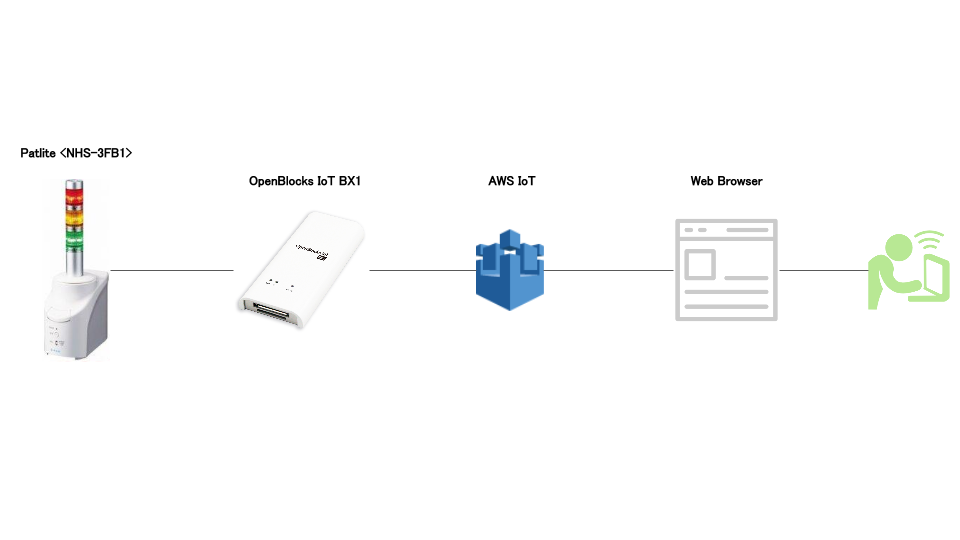
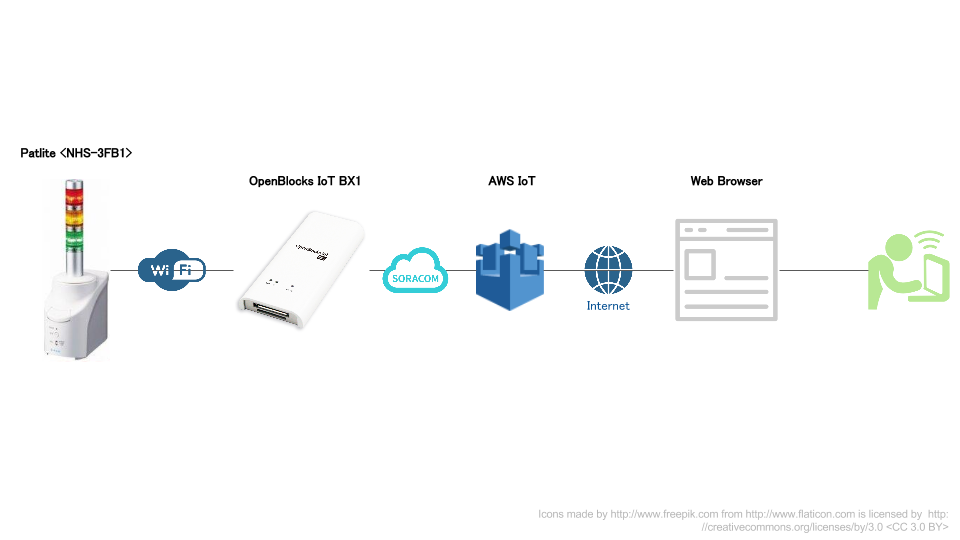
Add youtube, update overview

diff --git a/docs/08.rst b/docs/08.rst
@@ -19,6 +19,12 @@ https://s3-ap-northeast-1.amazonaws.com/ma2shita/patlite_control_w_awsiot.html
 #. まずは右側のON/OFF制御を行ってみましょう
 #. 気づいた事を話し合ってみましょう
 
+TODO: 実際のデモと差し替える
+
+.. raw:: html
+
+  <iframe width="560" height="315" src="https://www.youtube.com/embed/Oyw2I6PMRJo" frameborder="0" allowfullscreen></iframe>
+
 概要
 ----
 
